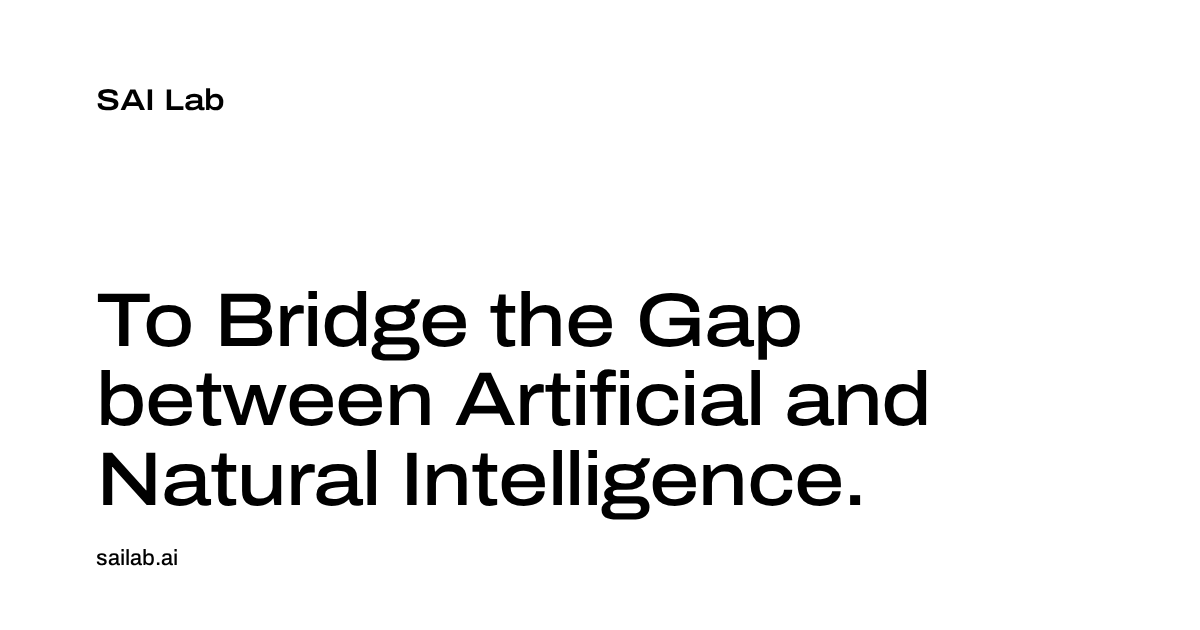
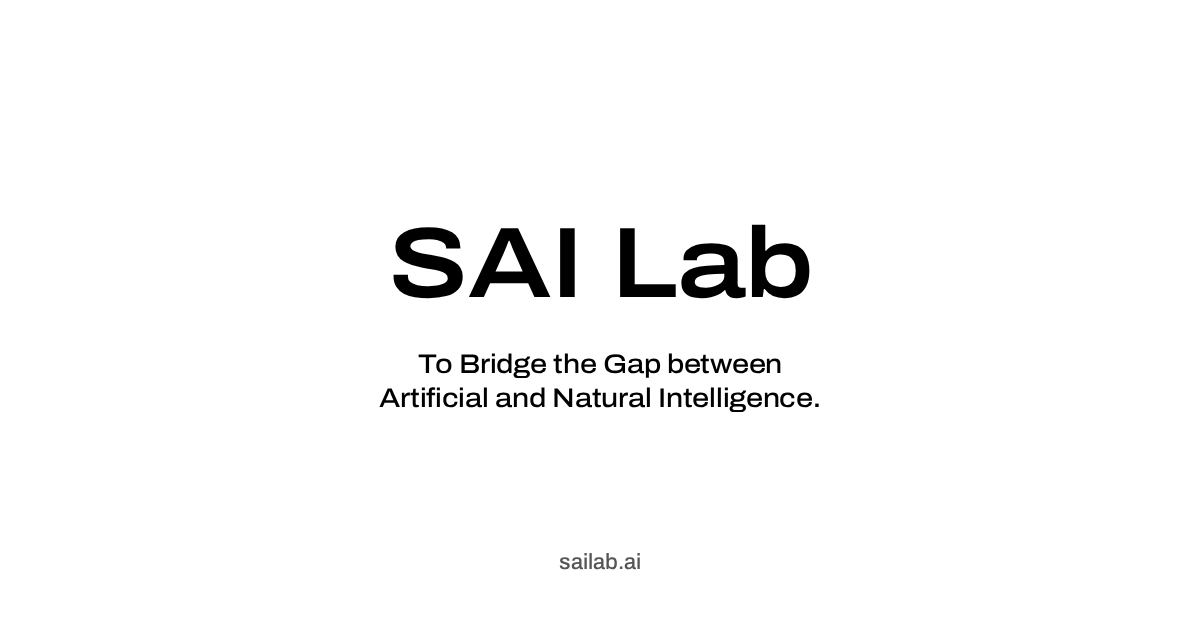
Share card centred, so a square crop keeps it whole

diff --git a/index.html b/index.html
@@ -16,13 +16,13 @@
 <meta property="og:title" content="SAI Lab">
 <meta property="og:description" content="SAI Lab — To Bridge the Gap between Artificial and Natural Intelligence.">
 <meta property="og:url" content="https://sailab.ai/">
-<meta property="og:image" content="https://sailab.ai/og.png">
+<meta property="og:image" content="https://sailab.ai/og.png?v=2">
 <meta property="og:image:width" content="1200">
 <meta property="og:image:height" content="630">
 <meta name="twitter:card" content="summary_large_image">
 <meta name="twitter:title" content="SAI Lab">
 <meta name="twitter:description" content="SAI Lab — To Bridge the Gap between Artificial and Natural Intelligence.">
-<meta name="twitter:image" content="https://sailab.ai/og.png">
+<meta name="twitter:image" content="https://sailab.ai/og.png?v=2">
 <script type="application/ld+json">{"@context": "https://schema.org", "@type": "ResearchOrganization", "name": "SAI Lab", "url": "https://sailab.ai/", "logo": "https://sailab.ai/apple-touch-icon.png", "description": "To Bridge the Gap between Artificial and Natural Intelligence.", "parentOrganization": {"@type": "CollegeOrUniversity", "name": "UC Davis"}}</script>
 <link rel="preconnect" href="https://fonts.googleapis.com">
 <link rel="preconnect" href="https://fonts.gstatic.com" crossorigin>
